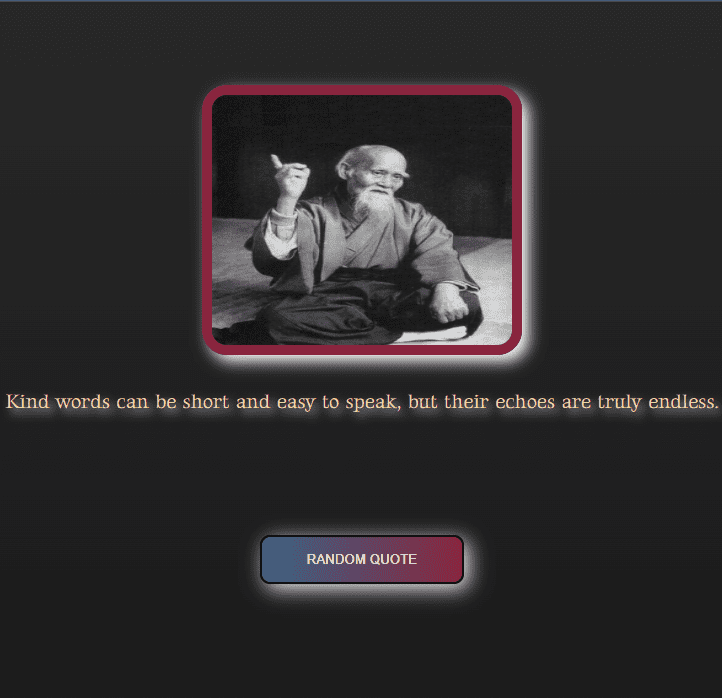
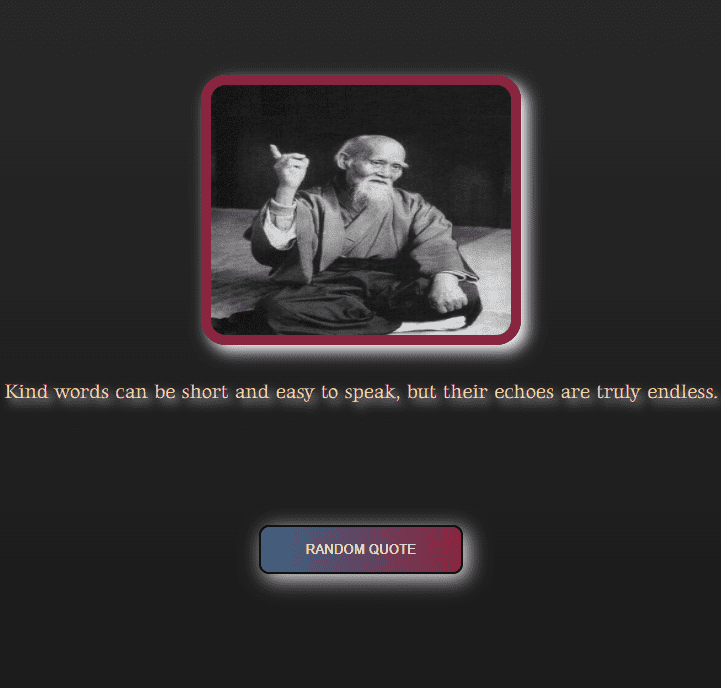
feat: add script for head title and fix link, optimization size images

Changed region(s): [[0.0, 0.1831, 1.0, 0.6105], [0.2746, 0.0916, 0.7628, 0.1831], [0.3662, 0.7631, 0.6408, 0.8547]]

diff --git a/index.html b/index.html
@@ -24,19 +24,51 @@
       </header>
       <main class="main">
         <section class="im">
-          <h1>
-            Hi,<br />
-            I'm Kirill,<br />
-            web developer
+          <h1 class="phrase-container">
+            <span class="phrase main-title">H</span>
+            <span class="phrase main-title">i</span>
+            <span class="phrase main-title">,</span>
           </h1>
+          <div class="phrase-container">
+            <span class="phrase main-title">I</span>
+            <span class="phrase main-title">'</span>
+            <span class="phrase main-title">m</span>
+            <span class="phrase main-title">&nbsp;</span>
+            <span class="phrase main-title">K</span>
+            <span class="phrase main-title">i</span>
+            <span class="phrase main-title">r</span>
+            <span class="phrase main-title">i</span>
+            <span class="phrase main-title">l</span>
+            <span class="phrase main-title">l</span>
+            <span class="phrase main-title">,</span>
+          </div>
+          <div class="phrase-container">
+            <span class="phrase main-title">w</span>
+            <span class="phrase main-title">e</span>
+            <span class="phrase main-title">b</span>
+            <span class="phrase main-title">&nbsp;</span>
+            <span class="phrase main-title">d</span>
+            <span class="phrase main-title">e</span>
+            <span class="phrase main-title">v</span>
+            <span class="phrase main-title">e</span>
+            <span class="phrase main-title">l</span>
+            <span class="phrase main-title">o</span>
+            <span class="phrase main-title">p</span>
+            <span class="phrase main-title">e</span>
+            <span class="phrase main-title">r</span>
+          </div>
         </section>
         <section class="about" id="about">
           <h2>About me</h2>
           <p>
-            Lorem ipsum, dolor sit amet consectetur adipisicing elit. Adipisci
-            quas, labore qui perspiciatis voluptate dolores, hic, provident
-            veritatis doloribus officia eos numquam. Fugiat ut, ipsam odit nisi
-            illum earum iste?
+            I work as an engineer at the
+            <a class="job-link" href="https://gis.by/ru/" target="_blank"
+              >Geoinformation Systems National Academy of Sciences</a
+            >. But I decided to change my job. Previously, I myself tried to
+            learn something from web technologies, but it all ended with a
+            couple of layouts. I hope that the spirit of The Rolling Scopes
+            community and the spirit of competition will help me not to abandon
+            what I started in the middle of the road and fulfill my old dream.
           </p>
         </section>
         <section class="education" id="education">
@@ -47,8 +79,7 @@
               <div class="content-item-year">2021</div>
               <div class="content-item-title">Book</div>
               <div class="content-item-text">
-                Lorem ipsum dolor sit amet consectetur adipisicing elit. Quas
-                odio eius libero ipsa, quidem adipisci molestias. Laudantium
+                My first web-related book was aHead First HTML with CSS & XHTML.
               </div>
             </div>
             <div class="education-content-item">
@@ -56,8 +87,8 @@
               <div class="content-item-year">2021</div>
               <div class="content-item-title">Stepik</div>
               <div class="content-item-text">
-                Lorem ipsum dolor, sit amet consectetur adipisicing elit. Hic
-                maiores eos ex deleniti optio perferendis explicabo sapiente
+                Then I got pulled further. I have passed all possible free
+                courses on the Stepik in web development.
               </div>
             </div>
             <div class="education-content-item">
@@ -65,8 +96,7 @@
               <div class="content-item-year">2021-2022</div>
               <div class="content-item-title">RSS Stage#0</div>
               <div class="content-item-text">
-                Lorem ipsum dolor, sit amet consectetur adipisicing elit.
-                Perferendis ipsam velit soluta cum asperiores quam aliquam omnis
+                Then I found out about the RSSchool.
               </div>
             </div>
             <div class="education-content-item">
@@ -74,8 +104,8 @@
               <div class="content-item-year">2022</div>
               <div class="content-item-title">RSS Stage#1</div>
               <div class="content-item-text">
-                Lorem ipsum dolor, sit amet consectetur adipisicing elit.
-                Perferendis ipsam velit soluta cum asperiores quam aliquam omnis
+                At the end of the first stage, I realized that there are many
+                things I do not know, so I decided to start from the beginning.
               </div>
             </div>
           </div>
@@ -88,40 +118,40 @@
             <div class="skills-content-text">
               <div class="skills-content-title"><h2>My skills</h2></div>
               <div class="skills-content-subtitle">
-                Lorem ipsum dolor sit amet consectetur adipisicing elit.
-                Laboriosam nostrum ipsam, veritatis natus harum illo accusantium
-                nemo impedit expedita. Sunt sequi iusto
+                Only the wisest and most foolish cannot be taught.
               </div>
-              <div class="skills-content-item">
-                <p>HTML</p>
-                <p class="interest">80%</p>
-                <div class="skills-item-line-1"></div>
-                <div class="skills-item-line-10"></div>
-              </div>
-              <div class="skills-content-item">
-                <p>CSS(SASS)</p>
-                <p class="interest">80%</p>
-                <div class="skills-item-line-2"></div>
-                <div class="skills-item-line-20"></div>
-              </div>
-              <div class="skills-content-item">
-                <p>JS</p>
-                <p class="interest">50%</p>
-                <div class="skills-item-line-3"></div>
-                <div class="skills-item-line-30"></div>
-              </div>
-              <div class="skills-content-item">
-                <p>NodeJS</p>
-                <p class="interest">20%</p>
-                <div class="skills-item-line-4"></div>
-                <div class="skills-item-line-40"></div>
-              </div>
-              <div class="skills-content-item">
-                <p>Git</p>
-                <p class="interest">70%</p>
-                <div class="skills-item-line-5"></div>
-                <div class="skills-item-line-50"></div>
-              </div>
+              <ul>
+                <li class="skills-content-item">
+                  <p>HTML</p>
+                  <p class="interest">80%</p>
+                  <div class="skills-item-line-1"></div>
+                  <div class="skills-item-line-10"></div>
+                </li>
+                <li class="skills-content-item">
+                  <p>CSS(SASS)</p>
+                  <p class="interest">80%</p>
+                  <div class="skills-item-line-2"></div>
+                  <div class="skills-item-line-20"></div>
+                </li>
+                <li class="skills-content-item">
+                  <p>JS</p>
+                  <p class="interest">50%</p>
+                  <div class="skills-item-line-3"></div>
+                  <div class="skills-item-line-30"></div>
+                </li>
+                <li class="skills-content-item">
+                  <p>NodeJS</p>
+                  <p class="interest">20%</p>
+                  <div class="skills-item-line-4"></div>
+                  <div class="skills-item-line-40"></div>
+                </li>
+                <li class="skills-content-item">
+                  <p>Git</p>
+                  <p class="interest">70%</p>
+                  <div class="skills-item-line-5"></div>
+                  <div class="skills-item-line-50"></div>
+                </li>
+              </ul>
             </div>
           </div>
         </section>
@@ -235,5 +265,6 @@
         ></a>
       </footer>
     </div>
+    <script src="main.js"></script>
   </body>
 </html>

diff --git a/style.css b/style.css
@@ -113,8 +113,8 @@ ol {
   list-style: decimal;
 }
 ul {
-  padding-left: 1em;
   list-style: square;
+  padding: 0;
 }
 blockquote,
 q {
@@ -169,7 +169,7 @@ body {
 .header {
   display: flex;
   height: 90px;
-  background-image: url(/img/header-image.jpg);
+  background: url(/img/header-image-1.jpg);
   background-size: cover;
   background-repeat: no-repeat;
 }
@@ -186,7 +186,7 @@ body {
 .nav {
   display: flex;
   align-items: center;
-  padding-left: 130px;
+  padding-left: 180px;
 }
 .nav-list {
   display: flex;
@@ -210,13 +210,55 @@ body {
   background-repeat: no-repeat;
   background-position: 0 -90px;
 }
-.im h1 {
-  padding-top: 150px;
+.phrase-container {
+  display: flex;
   margin-left: 80px;
+}
+.im h1 {
+  padding-top: 250px;
+}
+.main-title {
   font-size: 5.5em;
   font-weight: 800;
   color: #fde3a7;
   cursor: default;
+}
+.phrase {
+  opacity: 0;
+  transition: 0.5s ease-in-out;
+}
+.phrase-visible {
+  opacity: 1;
+}
+.phrase-active {
+  color: #d39084;
+  animation-name: myAnimation;
+  animation-duration: 1.5s;
+  animation-iteration-count: 1;
+  animation-fill-mode: forwards;
+}
+@keyframes myAnimation {
+  0% {
+    transform: scale3d(1, 1, 1);
+  }
+  30% {
+    transform: scale3d(1.25, 0.75, 1);
+  }
+  40% {
+    transform: scale3d(0.75, 1.25, 1);
+  }
+  50% {
+    transform: scale3d(1.15, 0.85, 1);
+  }
+  65% {
+    transform: scale3d(0.95, 1.05, 1);
+  }
+  75% {
+    transform: scale3d(1.05, 0.95, 1);
+  }
+  100% {
+    transform: scale3d(1, 1, 1);
+  }
 }
 
 /* about me */
@@ -231,10 +273,22 @@ body {
   color: #fde3a7;
   cursor: default;
 }
+.job-link {
+  text-decoration: none;
+  color: #ac9664;
+  transition: 0.3s ease-in-out;
+}
+.job-link:hover {
+  text-shadow: 0px 1px #fde3a7;
+}
 .about p {
-  padding-top: 150px;
+  padding-top: 100px;
   padding-left: 80px;
+  max-width: 1200px;
   font-size: 2em;
+  line-height: 1.5em;
+  text-indent: 45px;
+  text-align: justify;
   color: #fde3a7;
   cursor: default;
 }
@@ -249,7 +303,7 @@ body {
   background-repeat: no-repeat;
 }
 .education-title {
-  padding-top: 150px;
+  padding-top: 90px;
   padding-left: 80px;
   font-size: 3.8em;
   color: #fde3a7;
@@ -258,13 +312,14 @@ body {
 .education-content {
   width: 900px;
   display: flex;
-  margin-top: 80px;
+  margin-top: 40px;
   align-self: center;
   flex-direction: column;
-  gap: 35px;
+  gap: 10px;
 }
 .education-content-item {
   display: flex;
+  height: 90px;
   justify-content: space-between;
   color: #fde3a7;
   padding-bottom: 10px;
@@ -272,6 +327,7 @@ body {
 }
 .content-item-icon {
   flex-basis: 7%;
+  align-self: center;
   width: 50px;
   height: 50px;
 }
@@ -307,6 +363,9 @@ body {
 }
 .content-item-text {
   flex-basis: 40%;
+  text-align: justify;
+  align-self: center;
+  line-height: 1.5em;
 }
 
 /* ------------------------------skills------------------------------- */
@@ -350,7 +409,9 @@ body {
 .skills-content-item {
   display: flex;
   flex-wrap: wrap;
+  padding-top: 30px;
 }
+
 .skills-content-item p {
   width: 50%;
 }

diff --git a/main.js b/main.js
@@ -1,0 +1,31 @@
+const text = document.querySelectorAll(".phrase");
+let counter = 0;
+let counterSecond = 0;
+
+let timer = setInterval(() => {
+  text[counter].classList.add("phrase-active");
+  text[counter].classList.add("phrase-visible");
+  counter++;
+  if (counter === text.length) {
+    clearTimeout(timer);
+  }
+}, 300);
+
+const timerId = setTimeout(() => {
+  let timerSecond = setInterval(() => {
+    text[counterSecond].classList.remove("phrase-active");
+    counterSecond++;
+    if (counterSecond === text.length) {
+      clearTimeout(timerSecond);
+    }
+  }, 300);
+}, 1500);
+
+text.forEach((elem) => {
+  elem.addEventListener("mousemove", function () {
+    this.classList.add("phrase-active");
+    setTimeout(() => {
+      this.classList.remove("phrase-active");
+    }, 1000);
+  });
+});
